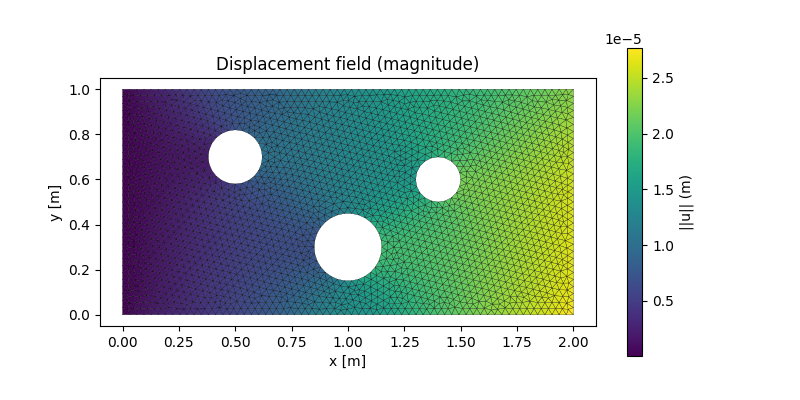
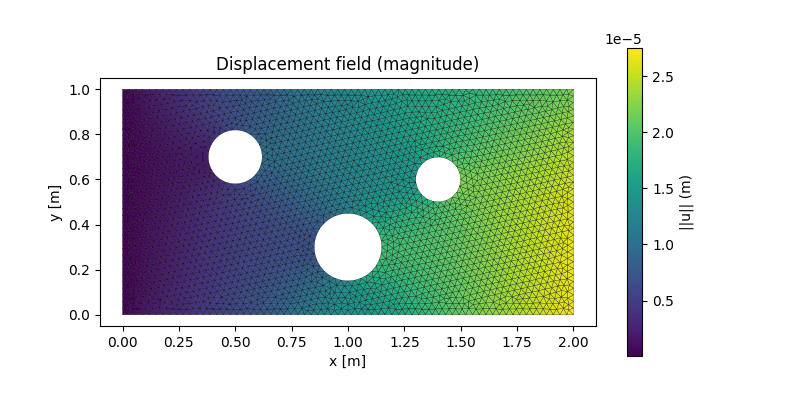
Implement CG

diff --git a/src/ConjugateGradient.py b/src/ConjugateGradient.py
@@ -364,15 +364,12 @@ def Strong_Wolfe(obj_func, current_params, d, t, F_k, g_k, gtd, options=None):
 
 
 
-class FullBatchLBFGS(Optimizer):
+class ConjugateGradient(Optimizer):
     """
-    Implements full-batch or deterministic L-BFGS algorithm. 
-    Performs the two-loop recursion, updating, and curvature updating 
-    in a single step.
+    Implements ConjugateGradient. 
 
     Inputs:
         lr (float): steplength or learning rate (default: 1)
-        history_size (int): update history size (default: 10)
         line_search (str): designates line search to use (default: 'Wolfe')
             Options:
                 'Wolfe': uses Armijo-Wolfe bracketing line search
@@ -381,23 +378,21 @@ class FullBatchLBFGS(Optimizer):
 
     """
 
-    def __init__(self, params, lr=1., history_size=10, line_search='Wolfe',
+    def __init__(self, params, lr=1., line_search='Wolfe',
                  dtype=torch.float, debug=False):
 
         # ensure inputs are valid
         if not 0.0 <= lr:
             raise ValueError("Invalid learning rate: {}".format(lr))
-        if not 0 <= history_size:
-            raise ValueError("Invalid history size: {}".format(history_size))
         #if line_search not in ['Armijo', 'Wolfe', 'None']:
         if line_search != 'Wolfe':
             raise ValueError("Invalid line search: {}".format(line_search))
 
-        defaults = dict(lr=lr, history_size=history_size, line_search=line_search, dtype=dtype, debug=debug)
-        super(FullBatchLBFGS, self).__init__(params, defaults)
+        defaults = dict(lr=lr, line_search=line_search, dtype=dtype, debug=debug)
+        super(ConjugateGradient, self).__init__(params, defaults)
 
         if len(self.param_groups) != 1:
-            raise ValueError("L-BFGS doesn't support per-parameter options "
+            raise ValueError("ConjugateGradient doesn't support per-parameter options (for now)"
                              "(parameter groups)")
 
         self._params = self.param_groups[0]['params']
@@ -405,11 +400,6 @@ class FullBatchLBFGS(Optimizer):
 
         state = self.state['global_state']
         state.setdefault('n_iter', 0)
-        state.setdefault('curv_skips', 0)
-        state.setdefault('H_diag',1)
-
-        state['old_dirs'] = []
-        state['old_stps'] = []
 
     def _numel(self):
         if self._numel_cache is None:
@@ -478,116 +468,7 @@ class FullBatchLBFGS(Optimizer):
         group = self.param_groups[0]
         group['line_search'] = line_search
         
-        return
-
-    def two_loop_recursion(self, vec):
-        """
-        Performs two-loop recursion on given vector to obtain Hv.
-
-        Inputs:
-            vec (tensor): 1-D tensor to apply two-loop recursion to
-
-        Output:
-            r (tensor): matrix-vector product Hv
-        """
-
-        group = self.param_groups[0]
-        history_size = group['history_size']
-
-        state = self.state['global_state']
-        old_dirs = state.get('old_dirs')    # change in gradients
-        old_stps = state.get('old_stps')    # change in iterates
-        H_diag = state.get('H_diag')
-
-        # compute the product of the inverse Hessian approximation and the gradient
-        num_old = len(old_dirs)
-
-        if 'rho' not in state:
-            state['rho'] = [None] * history_size
-            state['alpha'] = [None] * history_size
-        rho = state['rho']
-        alpha = state['alpha']
-
-        for i in range(num_old):
-            rho[i] = 1. / old_stps[i].dot(old_dirs[i])
-
-        q = vec
-        for i in range(num_old - 1, -1, -1):
-            alpha[i] = old_dirs[i].dot(q) * rho[i]
-            q.add_(old_stps[i], alpha= -alpha[i])
-
-        # multiply by initial Hessian 
-        # r/d is the final direction
-        r = torch.mul(q, H_diag)
-        for i in range(num_old):
-            beta = old_stps[i].dot(r) * rho[i]
-            r.add_(old_dirs[i], alpha= alpha[i]-beta)
-
-        return r
-
-    def curvature_update(self, flat_grad, eps=1e-10):
-        """
-        Performs curvature update.
-
-        Inputs:
-            flat_grad (tensor): 1-D tensor of flattened gradient for computing 
-                gradient difference with previously stored gradient
-            eps (float): constant for curvature pair rejection or damping (default: 1e-10)
-        """
-
-        assert len(self.param_groups) == 1
-
-        # load parameters
-        if(eps <= 0):
-            raise(ValueError('Invalid eps; must be positive.'))
-
-        group = self.param_groups[0]
-        history_size = group['history_size']
-        debug = group['debug']
-
-        # variables cached in state (for tracing)
-        state = self.state['global_state']
-                 
-        d = state.get('d')
-        t = state.get('t')
-        old_dirs = state.get('old_dirs')
-        old_stps = state.get('old_stps')
-        H_diag = state.get('H_diag')
-        prev_flat_grad = state.get('prev_flat_grad')
-
-        # compute y's
-        y = flat_grad.sub(prev_flat_grad)
-        s = d.mul(t)
-        ys = y.dot(s)  # y*s
-
-        # update L-BFGS matrix
-        if ys > eps  :
-
-            # updating memory
-            if len(old_dirs) == history_size:
-                # shift history by one (limited-memory)
-                old_dirs.pop(0)
-                old_stps.pop(0)
-
-            # store new direction/step
-            old_dirs.append(s)
-            old_stps.append(y)
-
-            # update scale of initial Hessian approximation
-            H_diag = ys / y.dot(y)  # (y*y)
-            
-            state['old_dirs'] = old_dirs
-            state['old_stps'] = old_stps
-            state['H_diag'] = H_diag
-
-        else:
-            # save skip
-            state['curv_skips'] += 1
-            if debug:
-                print('Curvature pair skipped due to failed criterion')
-
-
-        return  
+        return 
     
 
     def step(self, closure,  options=None):
@@ -599,7 +480,6 @@ class FullBatchLBFGS(Optimizer):
             options (dict): contains options for performing line search (default: None)
             
         General Options:
-            'eps' (float): constant for curvature pair rejection (default: 1e-10)
             'tolerance_grad' (float): optimality condition (default: 1e-6)
 
         Options for Wolfe line search:
@@ -610,7 +490,7 @@ class FullBatchLBFGS(Optimizer):
 
         """
         if closure is None:
-            raise RuntimeError("LBFGS requires a closure")
+            raise RuntimeError("ConjugateGradient requires a closure")
         
         # Make sure the closure is always called with grad enabled
         closure = torch.enable_grad()(closure)
@@ -618,11 +498,6 @@ class FullBatchLBFGS(Optimizer):
         if options is None:
             options = {}
         assert len(self.param_groups) == 1 
-
-        if 'eps' not in options.keys():
-            eps = 1e-10
-        else:
-            eps = options['eps']
 
         if 'tolerance_grad' not in options.keys():
             tolerance_grad = 1e-6
@@ -652,27 +527,33 @@ class FullBatchLBFGS(Optimizer):
             if debug:
                 print('Optimality condition achieved!')
             return orig_loss
+        
+        # # Preconditioning (Jacobi / diagonal)
+        # diag_prec = flat_grad.abs() + 1e-8
+        # g_prec = flat_grad / diag_prec
 
         # variables cached in state (for tracing)
         state = self.state['global_state']
-        #d = state.get('d')
+        prev_d = state.get('d')
         #t = state.get('t')
-        prev_flat_grad = state.get('prev_flat_grad')
-        
-        # update curvature if after 1st iteration
-        state = self.state['global_state']
-        if state['n_iter'] > 0:
-            self.curvature_update(flat_grad, eps)
+        prev_flat_grad = state.get('flat_grad')
 
-        # compute search direction
-        d = self.two_loop_recursion(-flat_grad)
-
-        # modify previous gradient
-        if prev_flat_grad is None:
+        if state['n_iter'] == 0:
             prev_flat_grad = flat_grad.clone(memory_format=torch.contiguous_format)
+            prev_d = - flat_grad.clone(memory_format=torch.contiguous_format)
+            beta = 0.0
         else:
-            prev_flat_grad.copy_(flat_grad)
+            #beta = torch.norm(flat_grad) / torch.norm(prev_flat_grad) #Fletcher–Reeves (FR)
+            #beta = torch.dot(flat_grad, flat_grad - prev_flat_grad) / (torch.dot(prev_flat_grad, prev_flat_grad)) #Polak–Ribiere (PR)
+            beta = torch.dot(flat_grad, flat_grad - prev_flat_grad) / torch.dot(prev_d, flat_grad - prev_flat_grad) #Hestenes–Stiefel (HS)
 
+        # check if beta is negative
+        if beta < 0:
+            if debug:
+                print('Beta is negative!')
+            beta = 0.0
+
+        d = -flat_grad + beta * prev_d
         # ----------------------------------
         # === Compute step length ===
 
@@ -710,7 +591,7 @@ class FullBatchLBFGS(Optimizer):
 
         # save state & return (unchanged)
         state['d'] = d
-        state['prev_flat_grad'] = prev_flat_grad
+        state['flat_grad'] = flat_grad.clone(memory_format=torch.contiguous_format)
         state['t'] = t 
 
         return orig_loss

diff --git a/src/optimization.py b/src/optimization.py
@@ -6,6 +6,7 @@ import numpy as np
 import time
 
 from src.LBFGS import FullBatchLBFGS 
+from src.ConjugateGradient import ConjugateGradient 
 
 from extra_scripts.c_plots import plot_displacement_magnitude, plot_von_mises, plot_von_mises_tricontourfd
 
@@ -49,7 +50,23 @@ class TestOptimizer:
 
             elif phase_name == "lbfgs":
                 lr = stage.get("lr", 1)
-                opt = FullBatchLBFGS (self.model.parameters(), lr=lr, history_size=100, line_search='Wolfe', dtype=self.model.dtype, debug=True) 
+                opt = FullBatchLBFGS(self.model.parameters(), lr=lr, history_size=100, line_search='Wolfe', dtype=self.model.dtype, debug=True) 
+                options = { 
+                        'c1': 1e-4,
+                        'c2': 0.9,        
+                        'max_ls': 20,     
+                        'ls_debug': False,
+                    }
+
+            elif phase_name in ["cg", "conjugate gradient"]:
+                lr = stage.get("lr", 1)
+                opt = ConjugateGradient(self.model.parameters(), lr=lr, line_search='Wolfe', dtype=self.model.dtype, debug=True) 
+                options = { 
+                        'c1': 1e-4,
+                        'c2': 0.5,        
+                        'max_ls': 20,     
+                        'ls_debug': False,
+                    }
             else:
                 raise ValueError(f"Unsupported optimizer: {phase}")
 
@@ -67,20 +84,11 @@ class TestOptimizer:
                     loss.backward()
                     return loss
 
-                if phase_name.lower() != "lbfgs":
+                if not ( phase_name.lower() in ["lbfgs", "cg", "conjugate gradient"]):
                     loss = closure_fn()
                     opt.step()
-
                 else:
-                    loss = closure_fn()
-                    options = {
-                        'eps': 1e-10,    
-                        'c1': 1e-4,
-                        'c2': 0.9,        
-                        'max_ls': 20,     
-                        'ls_debug': False,
-                    }
-                    opt.step(closure_fn, options=options)
+                    loss = opt.step(closure_fn, options=options)
 
                 loss_val = loss.item() if isinstance(loss, torch.Tensor) else float(loss)
                 self.loss_history.append({

diff --git a/examples/test.py b/examples/test.py
@@ -23,7 +23,7 @@ boundaries = {
     'right': 2, # Neumann boundaries
     'left': 1   # Drichlet boundaries
 }
-lc = 0.032
+lc = 0.03
 
 node_coords, connectivity, geom_boundary_mask, bc_mask, mn_mask, neumann_edges, dimless_scale = generate_mesh_gmsh(length, height, holes, boundaries, lc, dtype)
 patch = mesh_to_patch(connectivity, s=2)
@@ -83,7 +83,8 @@ stages = [
     #{"optimizer": "Adam", "lr": 3e-1, "epochs": 500},
     #{"optimizer": "AdamW", "lr": 3e-1, "epochs": 500},
     #{"optimizer": "RMSprop", "lr": 3e-2, "epochs": 500},
-    {"optimizer": "LBFGS", "epochs": 200},
+    #{"optimizer": "LBFGS", "epochs": 200},
+    {"optimizer": "CG", "epochs": 150},
 ] 
 
 optimizer.optimize(stages)
